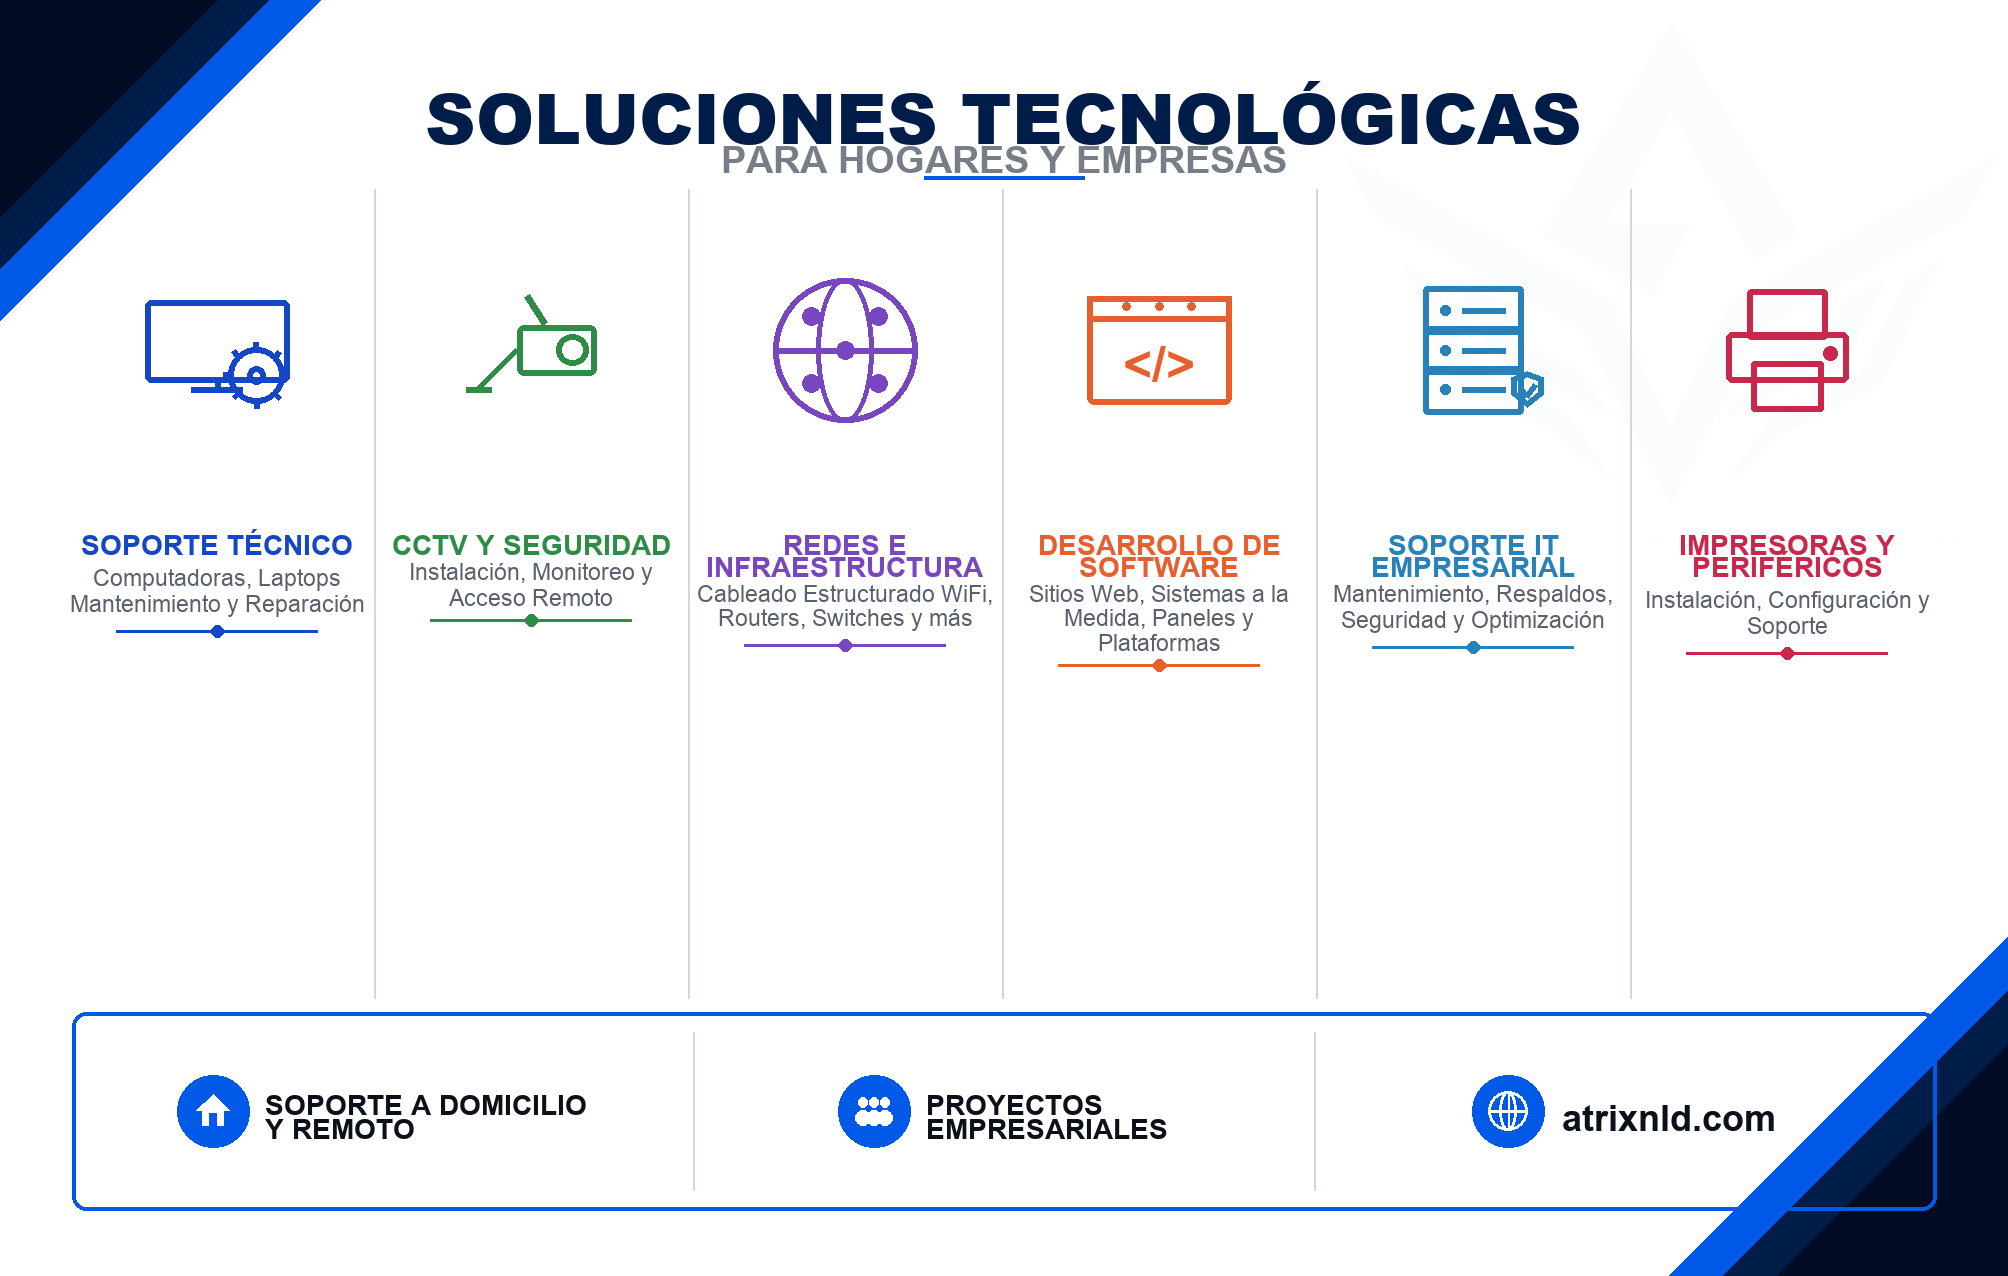
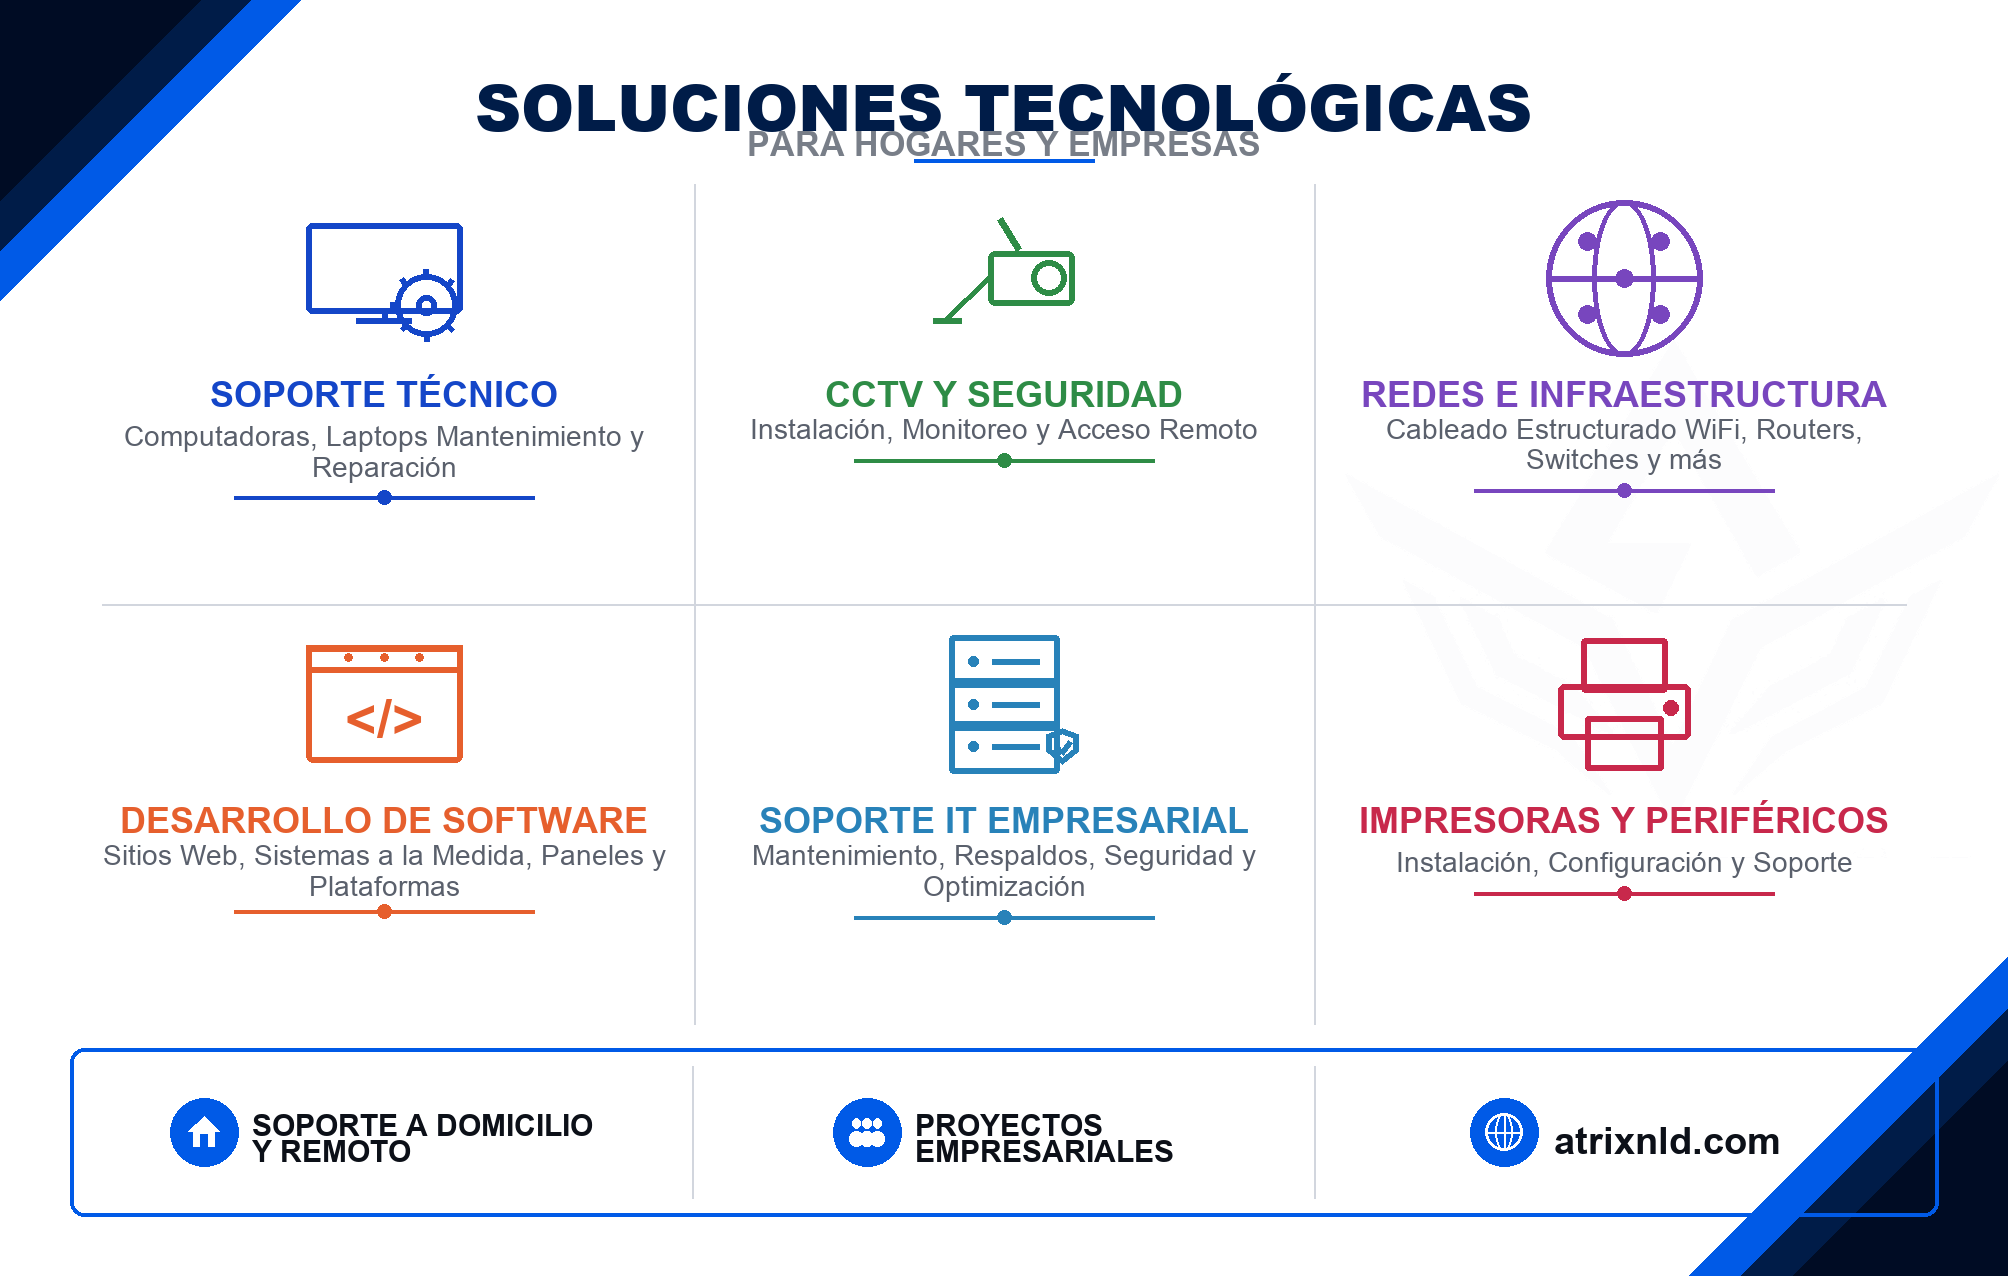
Redistribute PVC reverse into a print-readable 2×3 service grid.
Six skinny columns left a large empty mid band and unreadable type at 8.5×5.4 cm; fill height between header and footer with larger icons and copy.

diff --git a/scripts/render_business_cards.py b/scripts/render_business_cards.py
@@ -426,27 +426,28 @@ def render_front() -> Image.Image:
 
 
 def render_back() -> Image.Image:
+    """Reverse: 2×3 service grid fills height between header and footer (print-readable)."""
     img = Image.new("RGB", (W, H), WHITE)
     draw = ImageDraw.Draw(img)
 
-    wm = load_mark_watermark(820, opacity=12)
-    img.paste(wm, (W - wm.width - 10, 20), wm)
+    wm = load_mark_watermark(780, opacity=11)
+    img.paste(wm, (W - wm.width - 8, (H - wm.height) // 2 - 40), wm)
 
     # Match reference: TL + BR corners (no BL)
-    paint_corner(draw, "tl", size=320, band=52)
-    paint_corner(draw, "br", size=340, band=54)
+    paint_corner(draw, "tl", size=300, band=50)
+    paint_corner(draw, "br", size=320, band=52)
 
-    title_f = font(FONT_BLACK, 70)
-    sub_f = font(FONT_BOLD, 38)
+    title_f = font(FONT_BLACK, 64)
+    sub_f = font(FONT_BOLD, 34)
     t1 = "SOLUCIONES TECNOLÓGICAS"
     t2 = "PARA HOGARES Y EMPRESAS"
     tw, th1 = text_size(draw, t1, title_f)
-    draw.text(((W - tw) // 2, SAFE + 2), t1, fill=NAVY, font=title_f)
+    draw.text(((W - tw) // 2, SAFE - 4), t1, fill=NAVY, font=title_f)
     tw2, th2 = text_size(draw, t2, sub_f)
-    sub_y = SAFE + 2 + th1 + 8
+    sub_y = SAFE - 4 + th1 + 6
     draw.text(((W - tw2) // 2, sub_y), t2, fill=MUTED, font=sub_f)
-    rule_y = sub_y + th2 + 12
-    draw.line([(W // 2 - 80, rule_y), (W // 2 + 80, rule_y)], fill=BLUE, width=4)
+    rule_y = sub_y + th2 + 10
+    draw.line([(W // 2 - 90, rule_y), (W // 2 + 90, rule_y)], fill=BLUE, width=4)
 
     services = [
         ("monitor", C_SOPORTE, "SOPORTE TÉCNICO", "Computadoras, Laptops Mantenimiento y Reparación"),
@@ -457,35 +458,49 @@ def render_back() -> Image.Image:
         ("printer", C_PRINT, "IMPRESORAS Y PERIFÉRICOS", "Instalación, Configuración y Soporte"),
     ]
 
-    bar_m = SAFE + 8
-    bar_y0, bar_y1 = H - SAFE - 200, H - SAFE - 2
-    col_bottom = bar_y0 - 10
+    # Compact footer — sits close under the 2×3 grid (no empty mid band)
+    bar_m = SAFE + 6
+    bar_h = 168
+    bar_y1 = H - SAFE + 4
+    bar_y0 = bar_y1 - bar_h
+    grid_top = rule_y + 18
+    grid_bottom = bar_y0 - 18
+    margin_x = SAFE + 10
+    usable_w = W - margin_x * 2
+    cols, rows = 3, 2
+    cell_w = usable_w // cols
+    cell_h = (grid_bottom - grid_top) // rows
 
-    margin_x = SAFE - 4
-    usable = W - margin_x * 2
-    col_w = usable // 6
-    title_font = font(FONT_BOLD, 28)
-    desc_font = font(FONT_REG, 23)
-    icon_s = 72
+    title_font = font(FONT_BOLD, 36)
+    desc_font = font(FONT_REG, 28)
+    icon_s = 78
 
-    band_top = rule_y + 10
-    band_h = col_bottom - band_top
-    icon_y = band_top + int(band_h * 0.20)
-    text_top = band_top + int(band_h * 0.42)
+    # Grid separators
+    for c in range(1, cols):
+        sx = margin_x + cell_w * c
+        draw.line([(sx, grid_top + 6), (sx, grid_bottom - 6)], fill=LIGHT_GRAY, width=2)
+    mid_x0 = margin_x + 28
+    mid_x1 = margin_x + usable_w - 28
+    mid_y = grid_top + cell_h
+    draw.line([(mid_x0, mid_y), (mid_x1, mid_y)], fill=LIGHT_GRAY, width=2)
 
     for i, (kind, color, title, desc) in enumerate(services):
-        cx = margin_x + col_w * i + col_w // 2
+        row, col = divmod(i, cols)
+        x0 = margin_x + col * cell_w
+        y0 = grid_top + row * cell_h
+        cx = x0 + cell_w // 2
+        # Vertical stack centered in cell: icon → title → desc → accent
+        pad_y = 22
+        icon_y = y0 + pad_y + icon_s
+        text_max_w = cell_w - 36
+        text_top = icon_y + icon_s + 18
         service_icon(draw, cx, icon_y, kind, color, s=icon_s)
-        if i > 0:
-            sx = margin_x + col_w * i
-            draw.line([(sx, band_top + 2), (sx, col_bottom - 4)], fill=LIGHT_GRAY, width=2)
-
-        # Title → description → accent line (reference order)
-        ty = wrap_center(draw, title, cx, text_top, title_font, color, col_w - 8, line_gap=2)
-        dy = wrap_center(draw, desc, cx, ty + 8, desc_font, GRAY, col_w - 8, line_gap=3)
-        line_y = min(dy + 14, col_bottom - 18)
-        draw.line([(cx - col_w * 0.32, line_y), (cx + col_w * 0.32, line_y)], fill=color, width=3)
-        draw.ellipse((cx - 6, line_y - 6, cx + 6, line_y + 6), fill=color)
+        ty = wrap_center(draw, title, cx, text_top, title_font, color, text_max_w, line_gap=3)
+        dy = wrap_center(draw, desc, cx, ty + 10, desc_font, GRAY, text_max_w, line_gap=4)
+        line_y = min(dy + 16, y0 + cell_h - 28)
+        accent_w = min(int(cell_w * 0.38), 150)
+        draw.line([(cx - accent_w, line_y), (cx + accent_w, line_y)], fill=color, width=4)
+        draw.ellipse((cx - 7, line_y - 7, cx + 7, line_y + 7), fill=color)
 
     draw.rounded_rectangle((bar_m, bar_y0, W - bar_m, bar_y1), radius=14, outline=BLUE, width=4)
 
@@ -495,30 +510,30 @@ def render_back() -> Image.Image:
         ("web", "atrixnld.com"),
     ]
     seg_w = (W - 2 * bar_m) // 3
-    foot_f = font(FONT_BOLD, 28)
-    url_f = font(FONT_BOLD, 36)
+    foot_f = font(FONT_BOLD, 30)
+    url_f = font(FONT_BOLD, 38)
     for i, (kind, label) in enumerate(footer_items):
         cx = bar_m + seg_w * i + seg_w // 2
         if i > 0:
             sx = bar_m + seg_w * i
-            draw.line([(sx, bar_y0 + 20), (sx, bar_y1 - 20)], fill=LIGHT_GRAY, width=2)
+            draw.line([(sx, bar_y0 + 18), (sx, bar_y1 - 18)], fill=LIGHT_GRAY, width=2)
         mid_y = (bar_y0 + bar_y1) // 2
-        icon_r = 36
+        icon_r = 34
         if label == "atrixnld.com":
-            block_w = icon_r * 2 + 18 + text_size(draw, label, url_f)[0]
+            block_w = icon_r * 2 + 16 + text_size(draw, label, url_f)[0]
             icon_cx = cx - block_w // 2 + icon_r
             circle_icon(draw, icon_cx, mid_y, icon_r, kind)
             tw, th = text_size(draw, label, url_f)
-            draw.text((icon_cx + icon_r + 18, mid_y - th // 2), label, fill=BLACK, font=url_f)
+            draw.text((icon_cx + icon_r + 16, mid_y - th // 2), label, fill=BLACK, font=url_f)
         else:
             lines = label.split("\n")
             heights = [text_size(draw, ln, foot_f)[1] for ln in lines]
             total_h = sum(heights) + 4 * (len(lines) - 1)
             max_line_w = max(text_size(draw, ln, foot_f)[0] for ln in lines)
-            block_w = icon_r * 2 + 16 + max_line_w
+            block_w = icon_r * 2 + 14 + max_line_w
             icon_cx = cx - block_w // 2 + icon_r
             circle_icon(draw, icon_cx, mid_y, icon_r, kind)
-            tx = icon_cx + icon_r + 16
+            tx = icon_cx + icon_r + 14
             yy = mid_y - total_h // 2
             for ln in lines:
                 draw.text((tx, yy), ln, fill=BLACK, font=foot_f)
@@ -528,21 +543,30 @@ def render_back() -> Image.Image:
 
 
 def main() -> None:
-    OUT_DIR.mkdir(parents=True, exist_ok=True)
-    front = render_front()
-    back = render_back()
-    front_path = OUT_DIR / "tarjeta-atrix-frente.png"
-    back_path = OUT_DIR / "tarjeta-atrix-reverso.png"
-    front.save(front_path, "PNG", optimize=True, dpi=(DPI, DPI))
-    back.save(back_path, "PNG", optimize=True, dpi=(DPI, DPI))
-    print(f"Wrote {front_path} {front.size} @ {DPI} DPI ({8.5}×{5.4} cm)")
-    print(f"Wrote {back_path} {back.size} @ {DPI} DPI ({8.5}×{5.4} cm)")
+    import sys
 
+    only = sys.argv[1] if len(sys.argv) > 1 else "both"
+    OUT_DIR.mkdir(parents=True, exist_ok=True)
     dpi300_w = round(8.5 / 2.54 * 300)
     dpi300_h = round(5.4 / 2.54 * 300)
-    for src, name in ((front, "tarjeta-atrix-frente-300dpi.png"), (back, "tarjeta-atrix-reverso-300dpi.png")):
-        small = src.resize((dpi300_w, dpi300_h), Image.Resampling.LANCZOS)
-        out = OUT_DIR / name
+
+    if only in ("both", "front"):
+        front = render_front()
+        front_path = OUT_DIR / "tarjeta-atrix-frente.png"
+        front.save(front_path, "PNG", optimize=True, dpi=(DPI, DPI))
+        print(f"Wrote {front_path} {front.size} @ {DPI} DPI ({8.5}×{5.4} cm)")
+        small = front.resize((dpi300_w, dpi300_h), Image.Resampling.LANCZOS)
+        out = OUT_DIR / "tarjeta-atrix-frente-300dpi.png"
+        small.save(out, "PNG", optimize=True, dpi=(300, 300))
+        print(f"Wrote {out} {small.size} @ 300 DPI")
+
+    if only in ("both", "back", "reverso"):
+        back = render_back()
+        back_path = OUT_DIR / "tarjeta-atrix-reverso.png"
+        back.save(back_path, "PNG", optimize=True, dpi=(DPI, DPI))
+        print(f"Wrote {back_path} {back.size} @ {DPI} DPI ({8.5}×{5.4} cm)")
+        small = back.resize((dpi300_w, dpi300_h), Image.Resampling.LANCZOS)
+        out = OUT_DIR / "tarjeta-atrix-reverso-300dpi.png"
         small.save(out, "PNG", optimize=True, dpi=(300, 300))
         print(f"Wrote {out} {small.size} @ 300 DPI")
 

diff --git a/assets/source-cards/PREVIEW_COMPARISON.md b/assets/source-cards/PREVIEW_COMPARISON.md
@@ -3,5 +3,5 @@
 - Print size: **8.5 × 5.4 cm** → **2008 × 1276 px @ 600 DPI**
 - Outputs: `public/brand/tarjeta-atrix-frente.png`, `public/brand/tarjeta-atrix-reverso.png`
 - Front matches reference: TL/BR corner shards, right-pointing navy+blue chevron, stacked ATRIX logo left, contact right with blue title underline + circular icons, faint mark watermark
-- Back matches reference: header, 6 colored service columns (icon → title → desc → accent line), footer bar, TL/BR corners, watermark
-- Larger type than sparse drafts for PVC readability; ~2.7 mm safe trim margin
+- Back: header, **2×3** colored service grid (icon → title → desc → accent), footer bar close under grid, TL/BR corners, watermark
+- 2×3 chosen for PVC readability at 8.5×5.4 cm (6 skinny columns were unreadable); ~2.7 mm safe trim margin
